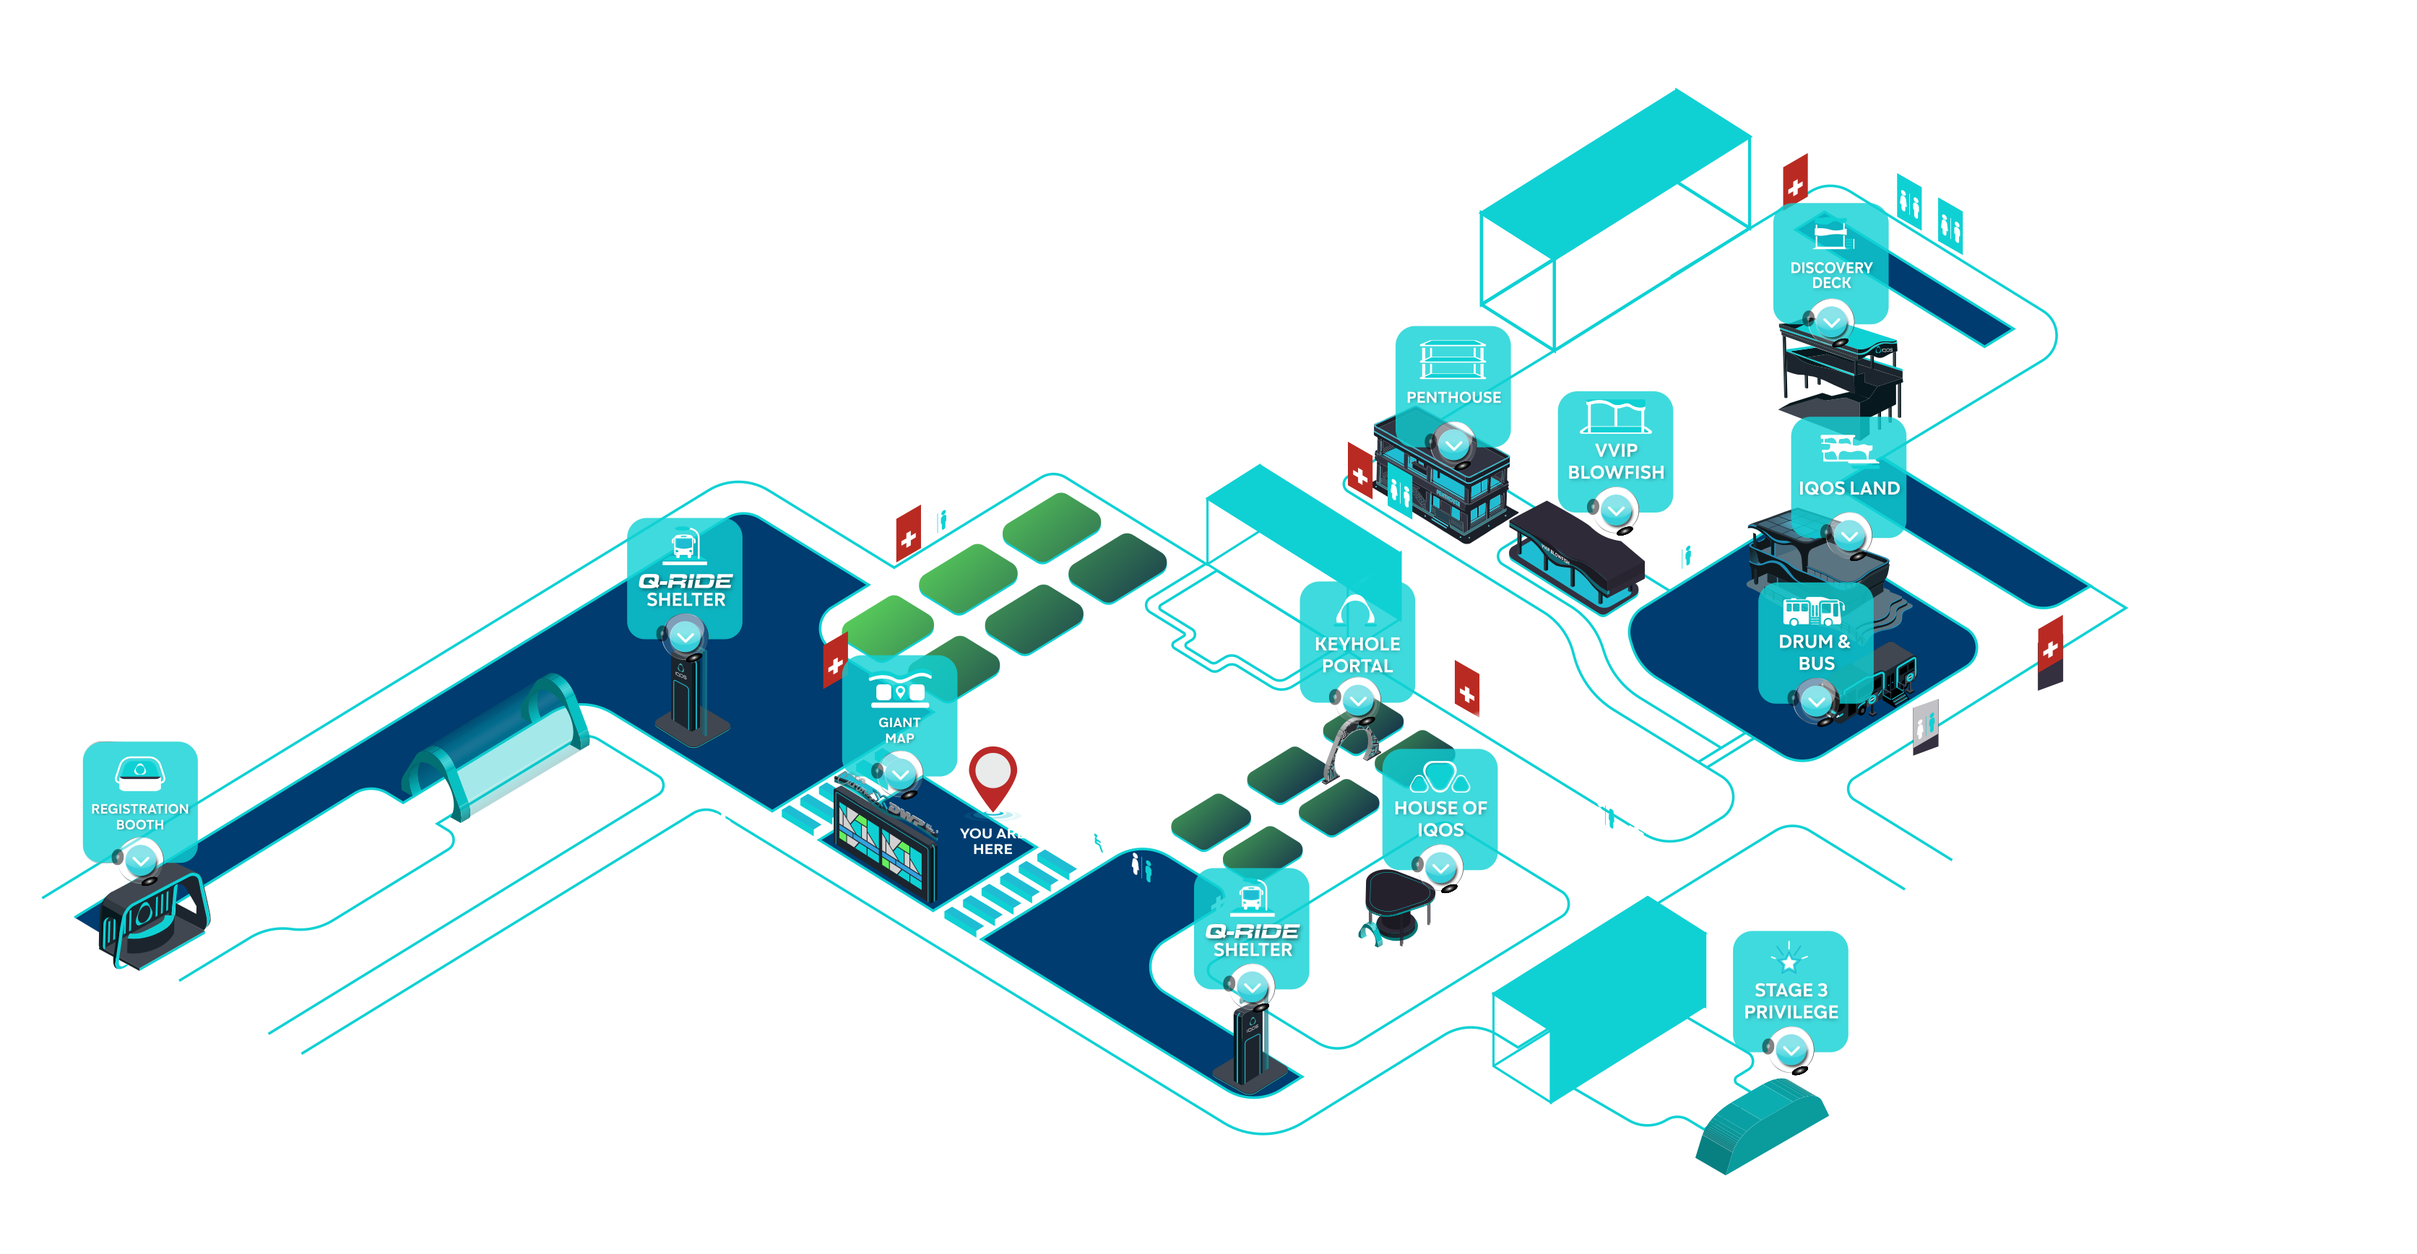
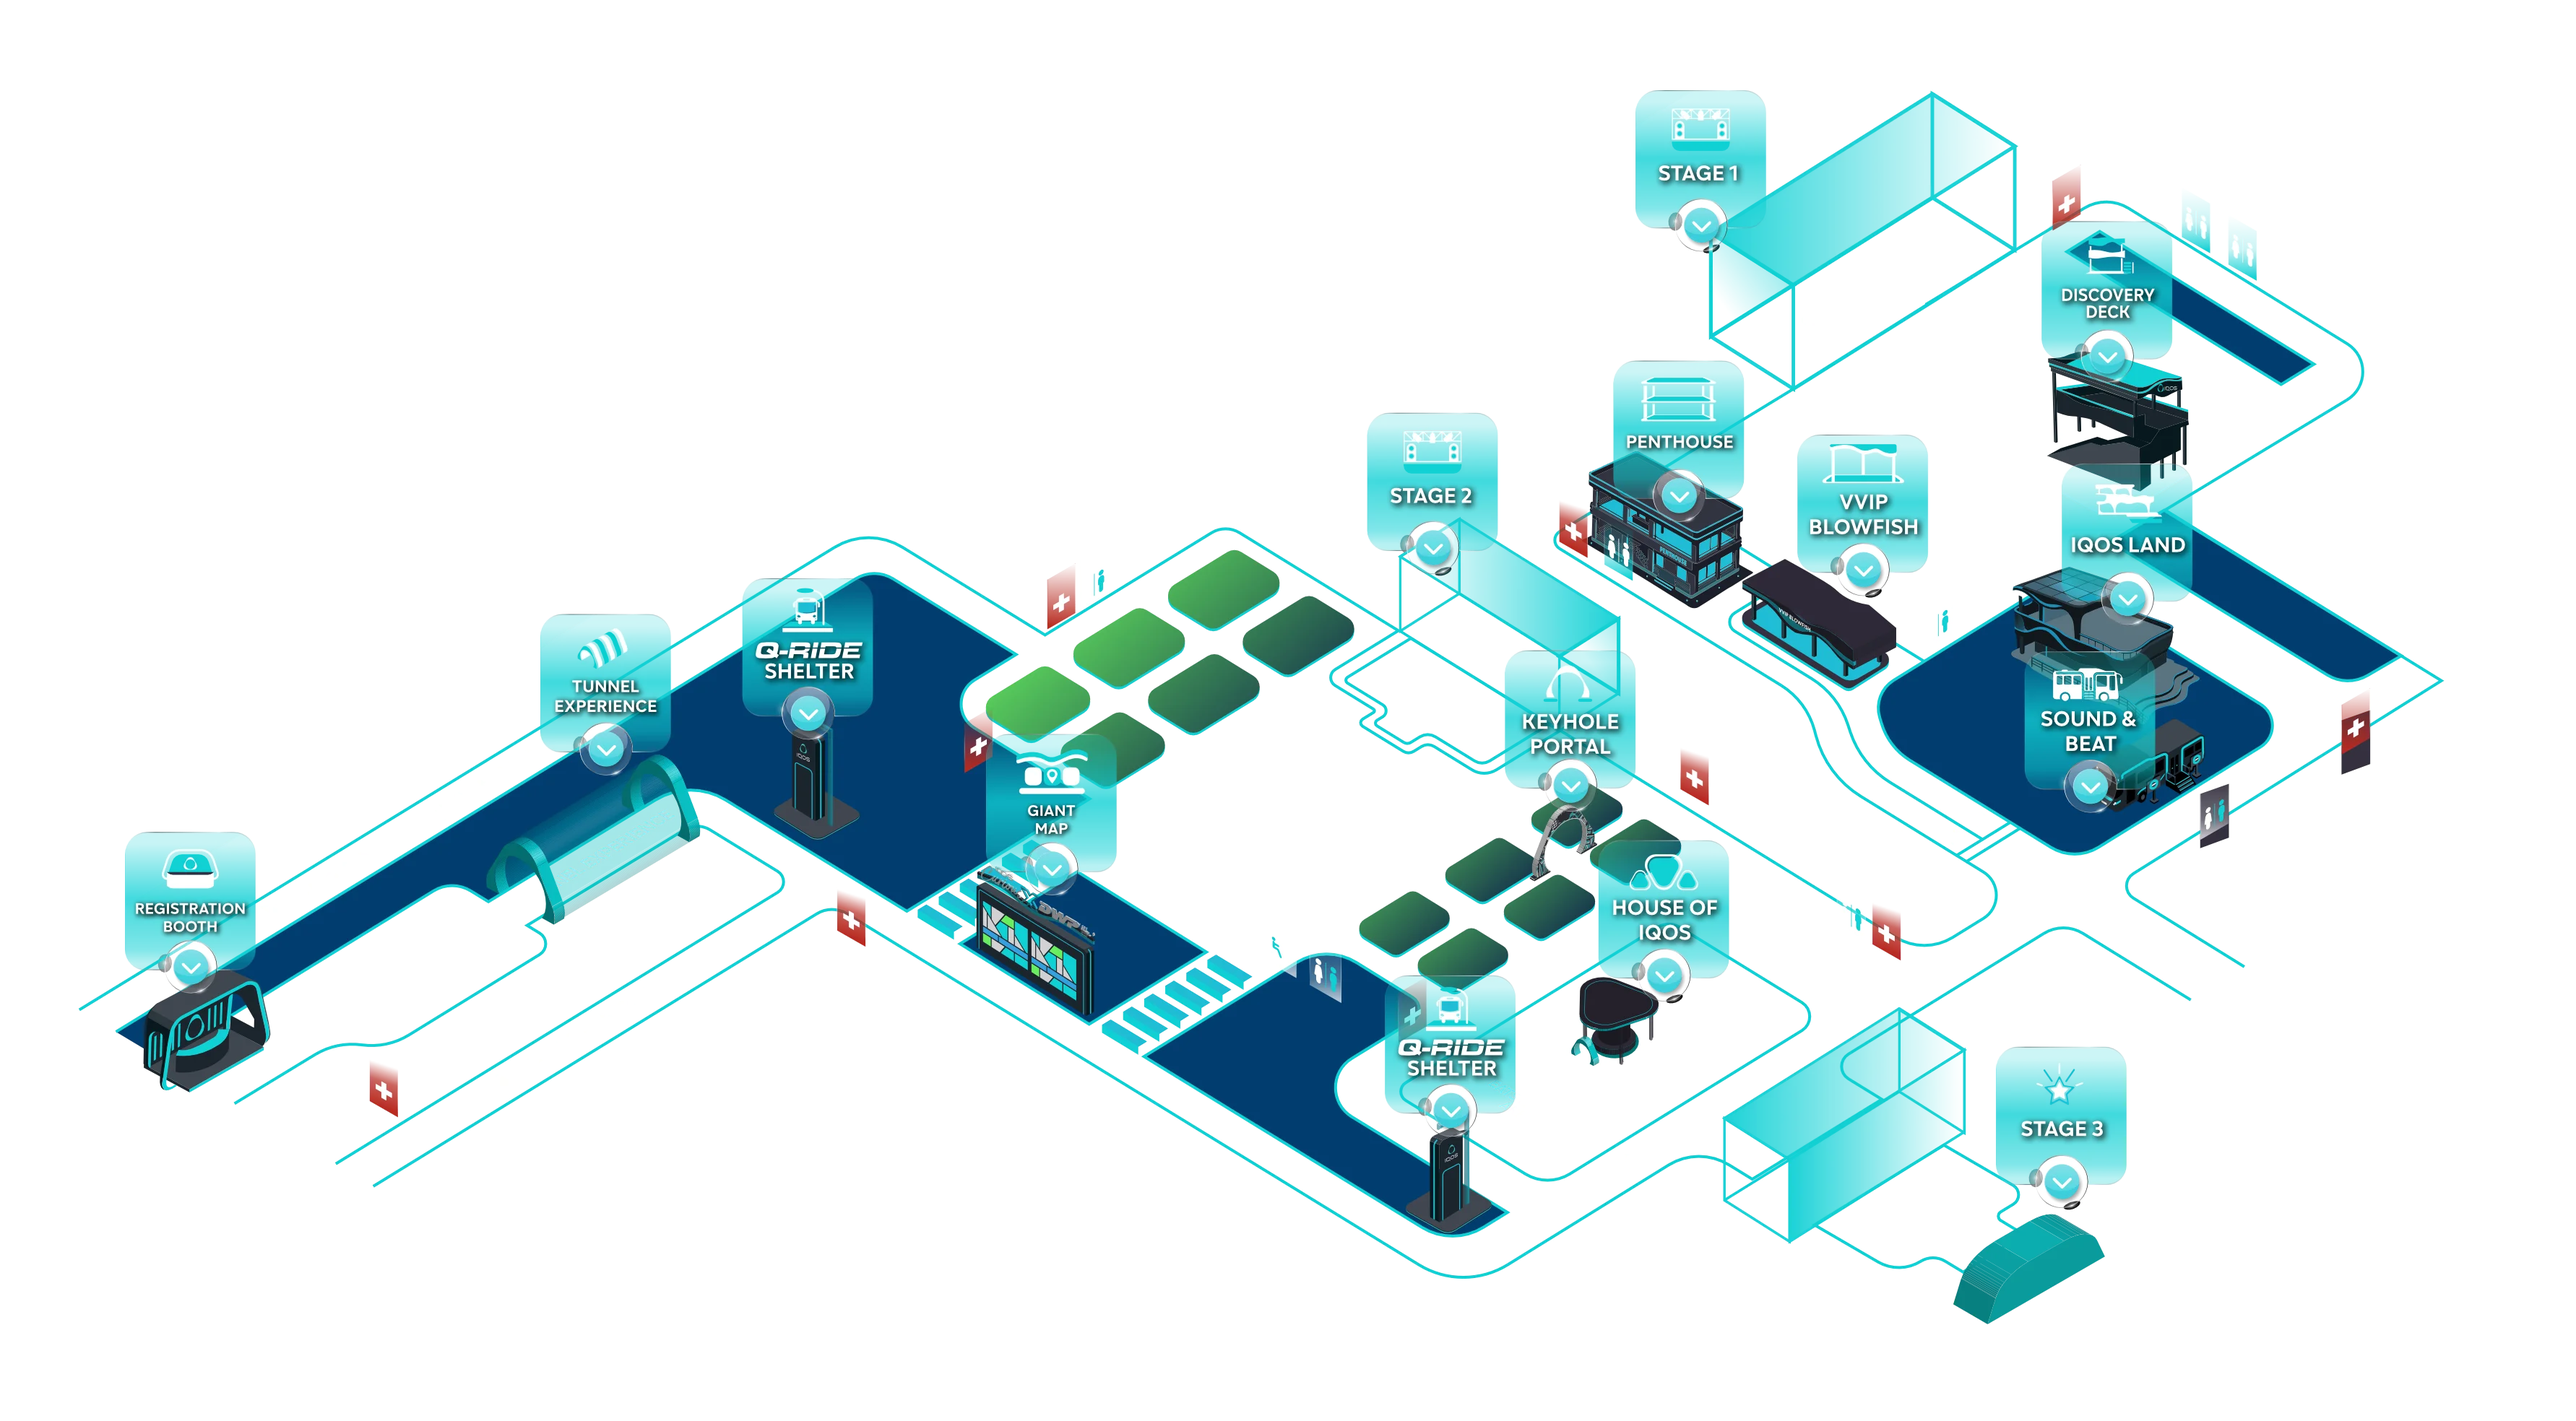
interactive zoom map and animation tailwind

Changed region(s): [[0.0311, 0.0622, 0.9325, 0.9326], [0.1554, 0.6839, 0.1865, 0.715]]

diff --git a/src/components/maps/MapDwp.tsx b/src/components/maps/MapDwp.tsx
@@ -1,30 +1,87 @@
+"use client";
+
 import Image from "next/image";
+import { TransformWrapper, TransformComponent } from "react-zoom-pan-pinch";
 
 interface Props {
 	zoom?: boolean;
 }
 
+type PingMap = {
+	id: number;
+	top: number;
+	left: number;
+	name: string;
+}
+
 export default function MapDwp({ zoom }: Props) {
+	const pingMap: PingMap[] = [
+		{ id: 1, top: 57, left: 10.5, name: "Registration Booth" },
+		{ id: 2, top: 46, left: 26, name: "Tunnel Experience" },
+		{ id: 3, top: 44, left: 33.8, name: "Q-RIDE Shelter A" },
+		{ id: 4, top: 52, left: 43, name: "Giant Map" },
+		{ id: 5, top: 64, left: 58, name: "Q-RIDE Shelter B" },
+		{ id: 6, top: 67, left: 80.5, name: "Stage 3" },
+		{ id: 7, top: 57, left: 65.7, name: "House of IQOS" },
+		{ id: 8, top: 48, left: 62.5, name: "Keyhole Portal" },
+		{ id: 9, top: 48, left: 81.5, name: "Beats & Bus" },
+		{ id: 10, top: 36.5, left: 57, name: "Stage 2" },
+		{ id: 11, top: 34, left: 66, name: "Penthouse" },
+		{ id: 12, top: 37.5, left: 73, name: "VVIP Blowfish" },
+		{ id: 13, top: 39, left: 83, name: "IQOS Land" },
+		{ id: 14, top: 27, left: 82.3, name: "Discovery Deck" },
+		{ id: 15, top: 21, left: 67, name: "Stage 1" },
+	];
+		
 	return zoom === true ? (
 		<div>test</div>
 	) : (
-		<div>
-			<Image
-				src={"/map-dwp-main-v2.png"}
-				alt="DWP Map"
-				width={1200}
-				height={900}
-				className="mt-30 p-5"
-			/>
+		<TransformWrapper
+			initialScale={1}
+			minScale={0.5}
+			maxScale={3}
+			wheel={{ step: 0.1 }}
+			pinch={{ step: 5 }}
+			doubleClick={{ mode: "reset" }}
+			centerOnInit={true}
+		>
+			<TransformComponent
+				wrapperStyle={{
+					width: "100%",
+					height: "100%",
+				}}
+				contentStyle={{
+					width: "100%",
+					height: "100%",
+				}}
+			>
+				<div>
+					{pingMap.map((ping) => (
+						<div key={ping.id} style={{ top: `${ping.top}%`, left: `${ping.left}%` }} className={`absolute z-30 size-3`}>
+							<span className="absolute inline-flex h-full w-full animate-ping rounded-full bg-sky-400 opacity-75"></span>
+							{/* <span className="relative inline-flex size-3 rounded-full bg-sky-500"></span> */}
+						</div>
+					))}
 
-			<Image
-				src={"/you-are-here.png"}
-				alt="You are here point"
-				width={60}
-				height={120}
-				className="relative z-30 animate-bounce
-			-top-60 left-124 transform -translate-x-1/2 -translate-y-1/2"
-			/>
-		</div>
+					<Image
+						src={"/map-dwp-main.webp"}
+						alt="DWP Map"
+						width={2200}
+						height={1600}
+						className="mt-30 p-5"
+					/>
+
+					<Image
+						src={"/you-are-here.png"}
+						alt="You are here point"
+						width={60}
+						height={120}
+						className="relative z-30 animate-bounce
+					-top-60 left-124 transform -translate-x-1/2 -translate-y-1/2"
+					/>
+
+				</div>
+			</TransformComponent>
+		</TransformWrapper>
 	);
 }
